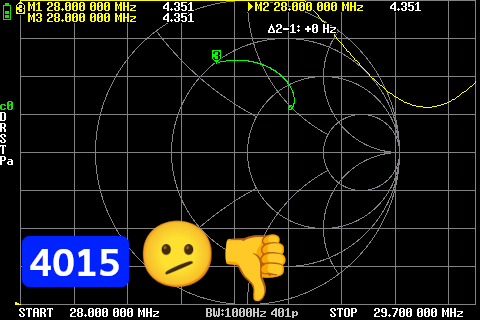
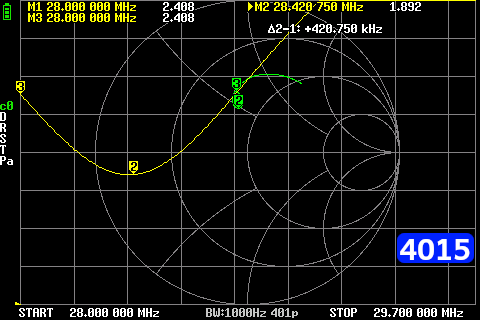
20250923

diff --git a/_posts/2025-09-20-4015.md b/_posts/2025-09-20-4015.md
@@ -48,11 +48,25 @@ As you can see, the coil did pretty well in bringing the harmonics back. Everyth
 
 ![4015](./assets/4015/4015-15M.webp)
 
+## Pig Tails for Ham Radio
+
+I thought about this build again and I wondered about adding a pig tail to the EFHW wire to physically lengthen it and hopefully bring 10M back into the fold. Adding a Wago lever nut to the end of the wire allows for a short little piece of extra wire to be swapped in easily if you want to work 10M.
+
+![4015](./assets/4015/4015-06.webp)
+
+![4015](./assets/4015/4015-07.webp)
+
 ![4015](./assets/4015/4015-10M.webp)
+
+So, it's still not very good. But it does give a slice of 10M under 2:1 SWR in the lower SSB portion. At least it is somewhat usable now - and if you had an internal rig tuner it could clean it up no problem.
 
 ## Conclusion
 
-I'm pretty sure this build is going to perform better with less losses than using the typical Type 43 core. However, it is kind of a bummer to lose out on 10M. To me it's not a deal breaker by any means because 10M is hardly ever open here anyways. But, it's a matter of principle. *This should work!* It might be a combination of the core type as well as the winding pattern of the toroid. I could have bumped it up to a 64:1 and used a 120pF as per Evil Lair's build and this might have helped bring 10M back into the fold. The other thing is having the antenna wire too short. I probably should have cut it for the CW portion of the 40M band. This might have also helped 10M out. But as it stands now, I've got 3 usable bands on a very efficient core without a tuner, deployed as a convenient sloper. Not too shabby at all.
+I'm pretty sure this build is going to perform better with less losses than using the typical Type 43 core. However, it is kind of a bummer have to fiddle with 10M. To me it's not a deal breaker by any means because 10M is hardly ever open here anyways. But, it's a matter of principle. *This should work!* It might be a combination of the core type as well as the winding pattern of the toroid. I could have bumped it up to a 64:1 and used a 120pF as per Evil Lair's build and this might have helped bring 10M back into the fold without the pig tail. But as it stands now, I've got 3 usable bands on a very efficient core without a tuner, deployed as a convenient sloper. 
+
+I tried a quick 5 Watt QRP SSB contact and was able to hunt a POTA station, KD0B in Minnesota. He was 59 and he told me I as 58. Not too shabby at all!
+
+![4015](./assets/4015/4015-08.webp)
 
 ![4015](./assets/4015/4015-05.webp)
 
